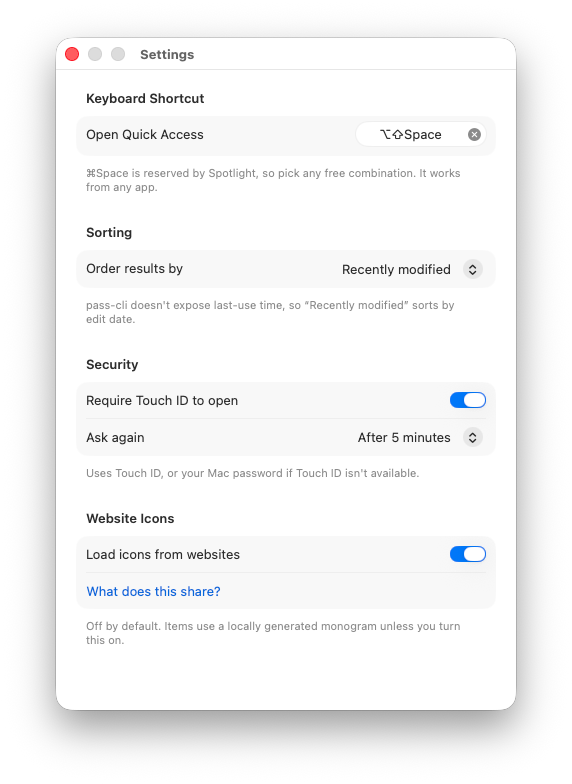
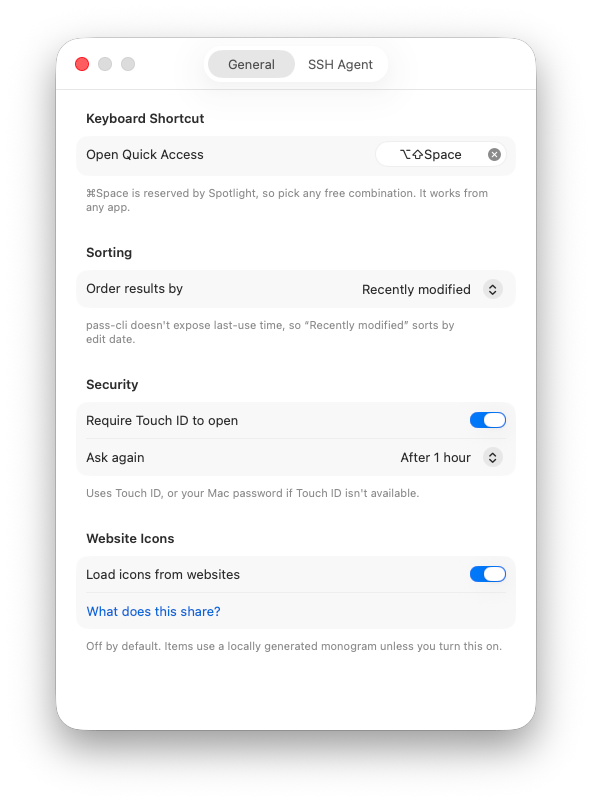
Site: SSH agent section, downloads, responsive layout
Add the SSH agent section with a setup guide and notes for migrating from
1Password, plus a pre-built download pointing at the latest GitHub release.
Fix the padding and navigation so it reads correctly on narrow screens, and
refresh the settings screenshot.

diff --git a/docs/index.html b/docs/index.html
@@ -3,12 +3,12 @@
 <head>
 <meta charset="utf-8">
 <meta name="viewport" content="width=device-width, initial-scale=1">
-<title>Pass Quick Access — native quick access for Proton Pass on macOS</title>
-<meta name="description" content="A native macOS quick-access window for Proton Pass. Press a hotkey from any app, search your logins, copy a username, password or one-time code, or open the site. Keyboard-driven. Secrets never persisted.">
+<title>Pass Quick Access, native quick access for Proton Pass on macOS</title>
+<meta name="description" content="A native macOS quick-access window for Proton Pass. Press a hotkey from any app, search your logins, copy a username, password or one-time code. Plus an SSH agent that gates your Proton Pass SSH keys behind Touch ID. Keyboard-driven. Secrets never persisted.">
 <link rel="icon" type="image/png" href="icon.png">
 <meta property="og:type" content="website">
 <meta property="og:title" content="Pass Quick Access for macOS">
-<meta property="og:description" content="Press a hotkey from any app, search your Proton Pass logins, copy a username, password or one-time code. Native. Keyboard-driven. Secrets never persisted.">
+<meta property="og:description" content="Press a hotkey from any app, search your Proton Pass logins, copy a username, password or one-time code, plus an SSH agent with Touch ID, like 1Password. Native. Keyboard-driven.">
 <meta property="og:image" content="https://bsramin.github.io/pass-quick-access/icon-1024.png">
 <meta property="og:url" content="https://bsramin.github.io/pass-quick-access/">
 <meta name="twitter:card" content="summary_large_image">
@@ -68,8 +68,8 @@ nav{position:sticky;top:0;z-index:50;background:var(--paper);border-bottom:1px s
 @media(min-width:780px){.nav-links .btn-ghost{display:inline-flex}}
 
 /* ---- hero ---- */
-.hero{display:grid;gap:46px;align-items:center;padding:72px 0 60px;border-bottom:1px solid var(--line)}
-@media(min-width:960px){.hero{grid-template-columns:1.05fr 1fr;padding:92px 0 80px}}
+.hero{display:grid;gap:46px;align-items:center;padding-block:72px 60px;border-bottom:1px solid var(--line)}
+@media(min-width:960px){.hero{grid-template-columns:1.05fr 1fr;padding-block:92px 80px}}
 .eyebrow{display:inline-flex;align-items:center;gap:9px;font-family:"JetBrains Mono",monospace;
   font-size:12.5px;letter-spacing:.06em;text-transform:uppercase;color:var(--ink-soft)}
 .eyebrow .dot{width:7px;height:7px;border-radius:50%;background:var(--accent)}
@@ -117,10 +117,10 @@ h1.title{font-size:clamp(40px,6.6vw,66px);font-weight:800;margin:20px 0 0;letter
 
 /* ---- section scaffold ---- */
 section{border-bottom:1px solid var(--line)}
-.sec-pad{padding:66px 0}
+.sec-pad{padding-block:66px}
 .sec-head{display:grid;gap:6px;margin-bottom:42px;max-width:44rem}
 .sec-num{font-family:"JetBrains Mono",monospace;font-size:12.5px;letter-spacing:.1em;color:var(--accent)}
-.sec-head h2{font-size:clamp(28px,4vw,42px);font-weight:800;letter-spacing:-.03em}
+.sec-head h2{font-size:clamp(28px,4vw,42px);font-weight:800;letter-spacing:-.03em;text-wrap:balance}
 .sec-head p{color:var(--ink-soft);font-size:18px;margin:10px 0 0}
 
 /* ---- feature grid (flat, ruled) ---- */
@@ -159,8 +159,12 @@ section{border-bottom:1px solid var(--line)}
 .flow-node .layer{font-family:"JetBrains Mono",monospace;font-size:11px;color:var(--accent);
   border:1px solid var(--line-2);padding:2px 7px;border-radius:5px}
 .flow-node p{color:var(--ink-soft);font-size:15px;margin:7px 0 0}
-.flow-edge{font-family:"JetBrains Mono",monospace;font-size:12px;color:var(--ink-dim);
-  padding:9px 24px;border-bottom:1px solid var(--line);background:rgba(0,0,0,.015)}
+.flow-edge{font-family:"JetBrains Mono",monospace;font-size:12px;color:var(--ink-soft);
+  padding:12px 24px;border-bottom:1px solid var(--line);background:rgba(63,44,224,.06);
+  text-align:center;letter-spacing:.02em}
+.flow-arrow{display:inline-flex;align-items:center;justify-content:center;width:20px;height:20px;
+  margin-right:7px;border-radius:50%;background:var(--accent);color:#fff;font-size:12px;font-weight:700;
+  vertical-align:middle;transform:translateY(-1px)}
 
 /* ---- keyboard ---- */
 .keys-wrap{display:grid;gap:0;border:1px solid var(--line);border-radius:12px;overflow:hidden;background:var(--panel)}
@@ -171,12 +175,12 @@ section{border-bottom:1px solid var(--line)}
 .keyrow span{color:var(--ink-soft);font-size:15px}
 
 /* ---- screenshots ---- */
-.shots{display:grid;gap:18px;grid-template-columns:1fr}
-@media(min-width:720px){.shots{grid-template-columns:1.12fr .88fr}}
-.shot{border:1px solid var(--line);border-radius:10px;overflow:hidden;background:var(--panel);position:relative}
+.shots{display:grid;gap:24px;grid-template-columns:1fr;align-items:start}
+@media(min-width:760px){.shots{grid-template-columns:1.22fr .85fr}}
+.shots-col{display:grid;gap:24px}
+.shot{margin:0;text-align:center}
 .shot img{display:block;width:100%;height:auto}
-.shot figcaption{position:absolute;left:12px;bottom:11px;font-family:"JetBrains Mono",monospace;font-size:11.5px;
-  color:var(--ink);background:rgba(251,250,246,.92);padding:4px 10px;border-radius:6px;border:1px solid var(--line-2)}
+.shot figcaption{margin-top:2px;font-family:"JetBrains Mono",monospace;font-size:11.5px;color:var(--ink-dim)}
 
 /* ---- get / final ---- */
 .get-grid{display:grid;gap:40px;align-items:start}
@@ -212,6 +216,56 @@ footer{padding:50px 0 38px}
 @media(prefers-reduced-motion:reduce){
   .reveal,[data-stagger]>*{opacity:1;transform:none;animation:none;transition:none}
 }
+
+/* ---- ssh agent ---- */
+.ssh-grid{display:grid;gap:28px;align-items:center}
+@media(min-width:820px){.ssh-grid{grid-template-columns:.92fr 1.08fr}}
+.ssh-shot{max-width:400px;margin:0 auto}
+.ssh-shot img{display:block;width:100%;height:auto}
+.ssh-steps{list-style:none;margin:0;padding:0;counter-reset:s}
+.ssh-steps li{position:relative;padding:0 0 16px 42px;color:var(--ink-soft);font-size:16px;line-height:1.5}
+.ssh-steps li:last-child{padding-bottom:0}
+.ssh-steps li::before{counter-increment:s;content:counter(s);position:absolute;left:0;top:-1px;
+  width:27px;height:27px;border-radius:50%;background:var(--accent);color:#fff;font-family:"JetBrains Mono",monospace;
+  font-size:13px;font-weight:600;display:flex;align-items:center;justify-content:center}
+.ssh-steps li b{color:var(--ink);font-weight:600}
+.ssh-steps .mono{font-size:.92em;background:rgba(0,0,0,.04);padding:1px 5px;border-radius:4px}
+.ssh-migrate{margin-top:22px;border:1px solid var(--line-2);border-radius:12px;background:var(--panel);padding:18px 20px}
+.ssh-migrate h3{font-size:16px;font-weight:700;display:flex;align-items:center;gap:9px}
+.ssh-migrate h3 svg{color:var(--accent);flex:none}
+.ssh-migrate p{color:var(--ink-soft);font-size:14.5px;margin:9px 0 0}
+.ssh-migrate .mono{font-size:.9em;background:rgba(0,0,0,.04);padding:1px 5px;border-radius:4px}
+.ssh-aside{margin-top:18px;color:var(--ink-dim);font-size:13.5px;line-height:1.55}
+.ssh-aside b{color:var(--ink-soft);font-weight:600}
+.ssh-aside .mono{font-size:.9em;background:rgba(0,0,0,.04);padding:1px 5px;border-radius:4px}
+
+/* ---- mobile ---- */
+@media(max-width:640px){
+  .wrap{padding:0 18px}
+  .nav-in{height:56px;gap:8px}
+  .brand{font-size:15.5px}
+  .brand img{width:24px;height:24px}
+  .nav-links{gap:6px}
+  .nav-links a.txt{display:none}
+  .btn{padding:8px 14px;font-size:14px}
+  .hero{padding-block:44px 42px;gap:32px}
+  h1.title{font-size:clamp(33px,8.6vw,44px)}
+  .lede{font-size:16.5px;margin-top:18px}
+  .cta-row{margin-top:24px;gap:10px}
+  .cta-row .btn{flex:1 1 46%;justify-content:center}
+  .sec-pad{padding-block:46px}
+  .sec-head{margin-bottom:28px}
+  .sec-head p{font-size:16px}
+  .card,.shield,.keyrow{border-right:0}
+  .card{padding:22px 20px}
+  .shield{padding:20px}
+  .flow-node,.flow-edge{padding-left:18px;padding-right:18px}
+  .keyrow{padding:15px 16px}
+  .foot-grid{gap:26px}
+  .foot-cols{gap:30px}
+  .foot-bottom{flex-direction:column;gap:8px}
+  .install pre{font-size:12px;padding:15px}
+}
 </style>
 </head>
 <body>
@@ -221,6 +275,7 @@ footer{padding:50px 0 38px}
     <a class="brand" href="#top"><img src="icon.png" alt="">Pass Quick Access</a>
     <div class="nav-links">
       <a class="txt" href="#features">Features</a>
+      <a class="txt" href="#ssh">SSH agent</a>
       <a class="txt" href="#security">Security</a>
       <a class="txt" href="#how">How it works</a>
       <a class="btn btn-ghost" href="https://github.com/bsramin/pass-quick-access" target="_blank" rel="noopener">GitHub</a>
@@ -231,23 +286,24 @@ footer{padding:50px 0 38px}
 
 <header id="top" class="wrap hero">
   <div data-stagger>
-    <div class="eyebrow" style="animation-delay:.02s"><span class="dot"></span>Native macOS · for Proton Pass</div>
+    <div class="eyebrow" style="animation-delay:.02s">For Proton Pass</div>
     <h1 class="title" style="animation-delay:.08s">Your logins,<br>one keystroke <em>away.</em></h1>
-    <p class="lede" style="animation-delay:.16s">A native quick-access window for Proton Pass. Summon it over any app, search, and copy a username, password or one-time code — without ever opening the Electron app.</p>
+    <p class="lede" style="animation-delay:.16s">A native quick-access window for Proton Pass. Summon it over any app, search, and copy a username, password or one-time code, without ever opening the Electron app.</p>
     <div class="cta-row" style="animation-delay:.24s">
-      <a class="btn btn-primary" href="#get">Build &amp; run <svg width="15" height="15" viewBox="0 0 24 24" fill="none" stroke="currentColor" stroke-width="2.2"><path d="M5 12h14M13 6l6 6-6 6"/></svg></a>
+      <a class="btn btn-primary" href="#get">Download <svg width="15" height="15" viewBox="0 0 24 24" fill="none" stroke="currentColor" stroke-width="2.2"><path d="M5 12h14M13 6l6 6-6 6"/></svg></a>
       <a class="btn btn-ghost" href="https://github.com/bsramin/pass-quick-access" target="_blank" rel="noopener">
         <svg width="16" height="16" viewBox="0 0 24 24" fill="currentColor"><path d="M12 2A10 10 0 0 0 8.84 21.5c.5.08.66-.22.66-.48v-1.7c-2.78.6-3.37-1.34-3.37-1.34-.45-1.16-1.1-1.47-1.1-1.47-.9-.62.07-.6.07-.6 1 .07 1.53 1.03 1.53 1.03.9 1.52 2.34 1.08 2.91.83.1-.65.35-1.09.63-1.34-2.22-.25-4.55-1.11-4.55-4.94 0-1.09.39-1.98 1.03-2.68-.1-.25-.45-1.27.1-2.65 0 0 .84-.27 2.75 1.02a9.6 9.6 0 0 1 5 0c1.91-1.29 2.75-1.02 2.75-1.02.55 1.38.2 2.4.1 2.65.64.7 1.03 1.59 1.03 2.68 0 3.84-2.34 4.69-4.57 4.94.36.31.68.92.68 1.85v2.74c0 .27.16.57.67.48A10 10 0 0 0 12 2Z"/></svg>
         Star on GitHub
       </a>
     </div>
     <div class="hotkey-note" style="animation-delay:.32s">
-      Default hotkey <span class="keys"><kbd>⌥</kbd><kbd>⇧</kbd><kbd>Space</kbd></span> — fully configurable
+      Default hotkey <span class="keys"><kbd>⌥</kbd><kbd>⇧</kbd><kbd>Space</kbd></span>, fully configurable
     </div>
     <div class="trust-row" style="animation-delay:.4s">
+      <span><svg width="15" height="15" viewBox="0 0 24 24" fill="none" stroke="currentColor" stroke-width="2"><rect x="3" y="4" width="18" height="13" rx="2"/><path d="M8 21h8M12 17v4"/></svg>Native macOS</span>
       <span><svg width="15" height="15" viewBox="0 0 24 24" fill="none" stroke="currentColor" stroke-width="2"><path d="M12 22s8-4 8-10V5l-8-3-8 3v7c0 6 8 10 8 10Z"/></svg>Secrets never stored</span>
       <span><svg width="15" height="15" viewBox="0 0 24 24" fill="none" stroke="currentColor" stroke-width="2"><path d="M4 7V5a2 2 0 0 1 2-2h2M16 3h2a2 2 0 0 1 2 2v2M20 17v2a2 2 0 0 1-2 2h-2M8 21H6a2 2 0 0 1-2-2v-2"/></svg>Keyboard-first</span>
-      <span><svg width="15" height="15" viewBox="0 0 24 24" fill="none" stroke="currentColor" stroke-width="2"><circle cx="12" cy="12" r="9"/><path d="M9 12l2 2 4-4"/></svg>Open source · GPLv3</span>
+      <span><svg width="15" height="15" viewBox="0 0 24 24" fill="none" stroke="currentColor" stroke-width="2"><circle cx="12" cy="12" r="9"/><path d="M9 12l2 2 4-4"/></svg>Open source, GPLv3</span>
     </div>
   </div>
 
@@ -266,14 +322,14 @@ footer{padding:50px 0 38px}
       </div>
       <div class="toast" id="toast"><span class="tdot"></span><span id="toastText">Password copied</span></div>
     </div>
-    <div class="demo-cap">↑ a live, interactive replica — type and press ↵</div>
+    <div class="demo-cap">↑ a live, interactive replica, type and press ↵</div>
   </div>
 </header>
 
 <section id="features">
   <div class="wrap sec-pad">
     <div class="sec-head reveal">
-      <div class="sec-num">01 — Features</div>
+      <div class="sec-num">01 Features</div>
       <h2>Built for muscle memory.</h2>
       <p>Everything happens from the keyboard, over whatever you're working in. No window switching, no waiting for an Electron app to wake up.</p>
     </div>
@@ -281,12 +337,12 @@ footer{padding:50px 0 38px}
       <div class="card span2">
         <div class="ic"><svg width="24" height="24" viewBox="0 0 24 24" fill="none" stroke="currentColor" stroke-width="1.8"><circle cx="11" cy="11" r="7"/><path d="m21 21-4.3-4.3"/></svg></div>
         <h3>Search that matches Proton Pass</h3>
-        <p>The same substring, diacritic-insensitive, multi-word matching as the official client — across titles, usernames, emails, URLs, notes and custom fields. Ordered by most recently modified or alphabetically.</p>
+        <p>The same substring, diacritic-insensitive, multi-word matching as the official client, across titles, usernames, emails, URLs, notes and custom fields. Ordered by most recently modified or alphabetically.</p>
       </div>
       <div class="card">
         <div class="ic"><svg width="24" height="24" viewBox="0 0 24 24" fill="none" stroke="currentColor" stroke-width="1.8"><rect x="4" y="4" width="16" height="16" rx="3"/><path d="M9 9h6M9 13h6M9 17h3"/></svg></div>
         <h3>Copy what you need</h3>
-        <p>Username, password, or one-time code — each shown only when the item actually has that field.</p>
+        <p>Username, password, or one-time code, each shown only when the item actually has that field.</p>
       </div>
       <div class="card">
         <div class="ic"><svg width="24" height="24" viewBox="0 0 24 24" fill="none" stroke="currentColor" stroke-width="1.8"><path d="M10 13a5 5 0 0 0 7 0l3-3a5 5 0 0 0-7-7l-1 1"/><path d="M14 11a5 5 0 0 0-7 0l-3 3a5 5 0 0 0 7 7l1-1"/></svg></div>
@@ -306,7 +362,7 @@ footer{padding:50px 0 38px}
       <div class="card">
         <div class="ic"><svg width="24" height="24" viewBox="0 0 24 24" fill="none" stroke="currentColor" stroke-width="1.8"><circle cx="12" cy="12" r="9"/><path d="M2 12h20M12 3a15 15 0 0 1 0 18M12 3a15 15 0 0 0 0 18"/></svg></div>
         <h3>Private by default</h3>
-        <p>Items show a locally generated monogram. Opt in to favicons with a clear notice — never fetched for local or private addresses.</p>
+        <p>Items show a locally generated monogram. Opt in to favicons with a clear notice, never fetched for local or private addresses.</p>
       </div>
     </div>
   </div>
@@ -315,12 +371,12 @@ footer{padding:50px 0 38px}
 <section id="security">
   <div class="wrap sec-pad">
     <div class="sec-head reveal">
-      <div class="sec-num">02 — Security model</div>
+      <div class="sec-num">02 Security model</div>
       <h2>It's a password tool. So it earns the trust.</h2>
       <p>The app never reimplements Proton's crypto or auth. It drives the official, Proton-maintained <a class="mono" style="color:var(--accent)" href="https://github.com/protonpass/pass-cli" target="_blank" rel="noopener">pass-cli</a> and is careful never to be the weaker link.</p>
     </div>
     <div class="shield-list reveal">
-      <div class="shield"><span class="chk"><svg width="17" height="17" viewBox="0 0 24 24" fill="none" stroke="currentColor" stroke-width="2.4"><path d="M5 12l4 4 10-10"/></svg></span><div><b>Secrets are never persisted or indexed</b><p>The in-memory index holds only titles, URLs, usernames and whether a password or code exists — never the values.</p></div></div>
+      <div class="shield"><span class="chk"><svg width="17" height="17" viewBox="0 0 24 24" fill="none" stroke="currentColor" stroke-width="2.4"><path d="M5 12l4 4 10-10"/></svg></span><div><b>Secrets are never persisted or indexed</b><p>The in-memory index holds only titles, URLs, usernames and whether a password or code exists, never the values.</p></div></div>
       <div class="shield"><span class="chk"><svg width="17" height="17" viewBox="0 0 24 24" fill="none" stroke="currentColor" stroke-width="2.4"><path d="M5 12l4 4 10-10"/></svg></span><div><b>Read fresh, cleared fast</b><p>Passwords and codes are read from pass-cli at the moment you copy, marked concealed on the pasteboard, and cleared after 30 seconds.</p></div></div>
       <div class="shield"><span class="chk"><svg width="17" height="17" viewBox="0 0 24 24" fill="none" stroke="currentColor" stroke-width="2.4"><path d="M5 12l4 4 10-10"/></svg></span><div><b>Authentication lives in pass-cli</b><p>The app holds no Proton credentials and relies entirely on the CLI's existing session.</p></div></div>
       <div class="shield"><span class="chk"><svg width="17" height="17" viewBox="0 0 24 24" fill="none" stroke="currentColor" stroke-width="2.4"><path d="M5 12l4 4 10-10"/></svg></span><div><b>Hardened runtime</b><p>Signed release builds use the hardened runtime without <span class="mono">get-task-allow</span>, so other processes can't attach. Nothing is written to disk.</p></div></div>
@@ -328,23 +384,51 @@ footer{padding:50px 0 38px}
   </div>
 </section>
 
+<section id="ssh">
+  <div class="wrap sec-pad">
+    <div class="sec-head reveal">
+      <div class="sec-num">03 SSH agent</div>
+      <h2>Your SSH keys, gated by Touch ID.</h2>
+      <p>Just like 1Password's SSH agent: it serves the SSH keys you keep in Proton Pass to <span class="mono">git</span> and <span class="mono">ssh</span>, and asks for Touch ID before every signature, naming the app that's asking. The private keys never leave pass-cli; the app only adds the native confirmation.</p>
+    </div>
+    <div class="ssh-grid reveal">
+      <figure class="ssh-shot"><img src="screenshots/ssh-agent.png" alt="SSH key signature request with a Touch ID prompt" loading="lazy"></figure>
+      <div>
+        <ol class="ssh-steps">
+          <li>Turn on <b>Enable SSH agent</b> in Settings → SSH. The app starts the upstream <span class="mono">pass-cli</span> agent for you.</li>
+          <li>Click <b>Configure ~/.ssh/config automatically</b>, it adds <span class="mono">IdentityAgent ~/.ssh/pass-quick-access-agent.sock</span>.</li>
+          <li>Use <span class="mono">git</span> and <span class="mono">ssh</span> as usual. Each signature pops a Touch ID prompt; approve once and you're through.</li>
+        </ol>
+        <p class="ssh-aside"><b>Tip:</b> the config entry covers <span class="mono">ssh</span> and <span class="mono">git</span>. For tools that read the <span class="mono">SSH_AUTH_SOCK</span> environment variable instead of <span class="mono">~/.ssh/config</span> (like <span class="mono">ssh-add</span> or some GUI clients), also turn on <b>Set SSH_AUTH_SOCK for new programs</b>, it publishes the proxy to your login session for programs launched afterwards.</p>
+        <div class="ssh-migrate">
+          <h3>
+            <svg width="18" height="18" viewBox="0 0 24 24" fill="none" stroke="currentColor" stroke-width="2"><path d="M10 13a5 5 0 0 0 7 0l3-3a5 5 0 0 0-7-7l-1 1"/><path d="M14 11a5 5 0 0 0-7 0l-3 3a5 5 0 0 0 7 7l1-1"/></svg>
+            Coming from 1Password?
+          </h3>
+          <p>Same workflow. Move your SSH keys into Proton Pass and let the app write the <span class="mono">~/.ssh/config</span> entry for you (step 2). Then just remove 1Password's own <span class="mono">IdentityAgent</span> line and turn off its agent. One gotcha shared by every agent: an explicit on-disk <span class="mono">IdentityFile</span> for a host wins over the agent, so drop those lines for the hosts you want served from Proton Pass.</p>
+        </div>
+      </div>
+    </div>
+  </div>
+</section>
+
 <section id="how">
   <div class="wrap sec-pad">
-    <div class="sec-head reveal" style="margin-left:auto;margin-right:auto;text-align:center">
-      <div class="sec-num">03 — How it works</div>
+    <div class="sec-head reveal" style="margin-left:auto;margin-right:auto;text-align:center;max-width:52rem">
+      <div class="sec-num">04 How it works</div>
       <h2>A thin, native shell over the official CLI.</h2>
     </div>
     <div class="flow reveal">
       <div class="flow-node">
-        <h3><span class="layer">UI</span>Floating panel · AppKit NSPanel + SwiftUI</h3>
+        <h3><span class="layer">UI</span>Floating panel (AppKit NSPanel + SwiftUI)</h3>
         <p>hotkey ▸ search ▸ pick ▸ copy / open. Opens over any app and dismisses when it loses focus.</p>
       </div>
-      <div class="flow-edge">↓ metadata only — titles, URLs, usernames</div>
+      <div class="flow-edge"><span class="flow-arrow">↓</span>metadata only: titles, URLs, usernames</div>
       <div class="flow-node">
-        <h3><span class="layer">CORE</span>PassCLIClient · an actor over pass-cli</h3>
-        <p>vault list · item list · item view. Secrets are fetched just-in-time and never cached.</p>
+        <h3><span class="layer">CORE</span>PassCLIClient, an actor over pass-cli</h3>
+        <p>vault list, item list, item view. Secrets are fetched just-in-time and never cached.</p>
       </div>
-      <div class="flow-edge">↓ secrets fetched on demand</div>
+      <div class="flow-edge"><span class="flow-arrow">↓</span>secrets fetched on demand</div>
       <div class="flow-node">
         <h3><span class="layer">CLI</span>pass-cli ▸ Proton Pass servers</h3>
         <p>The Proton-maintained client handles all authentication and cryptography.</p>
@@ -356,32 +440,15 @@ footer{padding:50px 0 38px}
 <section>
   <div class="wrap sec-pad">
     <div class="sec-head reveal">
-      <div class="sec-num">04 — Keyboard</div>
-      <h2>Hands stay home.</h2>
-    </div>
-    <div class="keys-wrap reveal">
-      <div class="keyrow"><span class="kc"><kbd>↑</kbd><kbd>↓</kbd></span><span>Move through results</span></div>
-      <div class="keyrow"><span class="kc"><kbd>⇞</kbd><kbd>⇟</kbd></span><span>Jump by page</span></div>
-      <div class="keyrow"><span class="kc"><kbd>↖</kbd><kbd>↘</kbd></span><span>Home &amp; End</span></div>
-      <div class="keyrow"><span class="kc"><kbd>→</kbd></span><span>Open an item</span></div>
-      <div class="keyrow"><span class="kc"><kbd>←</kbd></span><span>Step back</span></div>
-      <div class="keyrow"><span class="kc"><kbd>esc</kbd></span><span>Close the panel</span></div>
-    </div>
-  </div>
-</section>
-
-<section>
-  <div class="wrap sec-pad">
-    <div class="sec-head reveal">
-      <div class="sec-num">05 — Screenshots</div>
+      <div class="sec-num">05 Screenshots</div>
       <h2>Native, down to the pixel.</h2>
     </div>
     <div class="shots reveal">
-      <figure class="shot"><img src="screenshots/search.png" alt="Quick-access search panel" loading="lazy"><figcaption>search panel</figcaption></figure>
+      <div class="shots-col">
+        <figure class="shot"><img src="screenshots/search.png" alt="Quick-access search panel" loading="lazy"><figcaption>search panel</figcaption></figure>
+        <figure class="shot"><img src="screenshots/detail.png" alt="Item detail view with copy actions" loading="lazy"><figcaption>item detail</figcaption></figure>
+      </div>
       <figure class="shot"><img src="screenshots/settings.png" alt="Settings window" loading="lazy"><figcaption>settings</figcaption></figure>
-    </div>
-    <div class="shots reveal" style="margin-top:18px;grid-template-columns:1fr">
-      <figure class="shot"><img src="screenshots/detail.png" alt="Item detail view with copy actions" loading="lazy"><figcaption>item detail</figcaption></figure>
     </div>
   </div>
 </section>
@@ -389,25 +456,24 @@ footer{padding:50px 0 38px}
 <section id="get">
   <div class="wrap sec-pad">
     <div class="sec-head reveal">
-      <div class="sec-num">06 — Get it</div>
+      <div class="sec-num">06 Get it</div>
       <h2>Get it running.</h2>
     </div>
     <div class="get-grid">
       <div class="reveal">
-        <p style="color:var(--ink-soft);font-size:16px;margin:0">Distribution is build-from-source today. You'll need:</p>
-        <ul class="req">
-          <li><svg width="17" height="17" viewBox="0 0 24 24" fill="none" stroke="currentColor" stroke-width="2"><path d="M5 12l4 4 10-10"/></svg>macOS 14 or later</li>
-          <li><svg width="17" height="17" viewBox="0 0 24 24" fill="none" stroke="currentColor" stroke-width="2"><path d="M5 12l4 4 10-10"/></svg><span><a class="mono" style="color:var(--accent)" href="https://github.com/protonpass/pass-cli" target="_blank" rel="noopener">pass-cli</a> installed and logged in</span></li>
-          <li><svg width="17" height="17" viewBox="0 0 24 24" fill="none" stroke="currentColor" stroke-width="2"><path d="M5 12l4 4 10-10"/></svg><span><a class="mono" style="color:var(--accent)" href="https://github.com/yonaskolb/XcodeGen" target="_blank" rel="noopener">XcodeGen</a> to generate the project</span></li>
-        </ul>
-        <p class="note">A notarized release needs an Apple Developer ID certificate. <a style="color:var(--accent)" href="https://github.com/sponsors/bsramin" target="_blank" rel="noopener">Sponsoring</a> helps cover it, so builds open without a Gatekeeper prompt.</p>
+        <p style="color:var(--ink-soft);font-size:16px;margin:0 0 18px">Grab the latest pre-built app, or build it from source. Either way you'll need macOS 14+ and <a class="mono" style="color:var(--accent)" href="https://github.com/protonpass/pass-cli" target="_blank" rel="noopener">pass-cli</a> installed and logged in.</p>
+        <a class="btn btn-primary" href="https://github.com/bsramin/pass-quick-access/releases/latest" target="_blank" rel="noopener">Download for macOS
+          <svg width="15" height="15" viewBox="0 0 24 24" fill="none" stroke="currentColor" stroke-width="2.2"><path d="M12 4v12m0 0l-5-5m5 5l5-5M5 20h14"/></svg>
+        </a>
+        <p class="note">The download isn't notarized yet (a notarized release needs an Apple Developer ID certificate). The first time, right-click the app and choose <b>Open</b> to get past Gatekeeper, or run <span class="mono">xattr -dr com.apple.quarantine PassQuickAccess.app</span>. <a style="color:var(--accent)" href="https://github.com/sponsors/bsramin" target="_blank" rel="noopener">Sponsoring</a> helps cover notarization.</p>
       </div>
       <div class="install reveal">
         <div class="ihead">
           <span class="dotmac" style="background:#ff5f57"></span><span class="dotmac" style="background:#febc2e"></span><span class="dotmac" style="background:#28c840"></span>
           <span style="margin-left:8px">Terminal</span>
         </div>
-        <pre><span class="c"># clone &amp; build</span>
+        <pre><span class="c"># Build from source</span>
+<span class="c"># needs xcodegen too</span>
 git clone https://github.com/bsramin/pass-quick-access
 <span class="g">cd</span> pass-quick-access
 xcodegen generate
@@ -418,8 +484,9 @@ xcodebuild -scheme PassQuickAccess \
       </div>
     </div>
     <div class="cta-row reveal" style="margin-top:34px">
-      <a class="btn btn-primary" href="https://github.com/bsramin/pass-quick-access" target="_blank" rel="noopener">View on GitHub</a>
-      <a class="btn btn-ghost" href="https://github.com/sponsors/bsramin" target="_blank" rel="noopener">Sponsor the project</a>
+      <a class="btn btn-primary" href="https://github.com/bsramin/pass-quick-access/releases/latest" target="_blank" rel="noopener">Download</a>
+      <a class="btn btn-ghost" href="https://github.com/bsramin/pass-quick-access" target="_blank" rel="noopener">View on GitHub</a>
+      <a class="btn btn-ghost" href="https://github.com/sponsors/bsramin" target="_blank" rel="noopener">Sponsor</a>
     </div>
   </div>
 </section>
@@ -444,13 +511,13 @@ xcodebuild -scheme PassQuickAccess \
           <a href="https://github.com/protonpass/pass-cli" target="_blank" rel="noopener">pass-cli</a>
           <a href="https://proton.me/pass" target="_blank" rel="noopener">Proton Pass</a>
           <a href="https://github.com/sponsors/bsramin" target="_blank" rel="noopener">Sponsor</a>
-          <a href="https://github.com/bsramin/pass-quick-access/blob/main/LICENSE" target="_blank" rel="noopener">License · GPLv3</a>
+          <a href="https://github.com/bsramin/pass-quick-access/blob/main/LICENSE" target="_blank" rel="noopener">License (GPLv3)</a>
         </div>
       </div>
     </div>
     <div class="foot-bottom">
       <span style="max-width:46em">Not affiliated with or endorsed by Proton AG. Proton Pass is a trademark of Proton AG.</span>
-      <span>© 2026 · GPL-3.0</span>
+      <span>© 2026, GPL-3.0. Made in Europe with <span style="color:#e0245e">♥</span></span>
     </div>
   </div>
 </footer>
